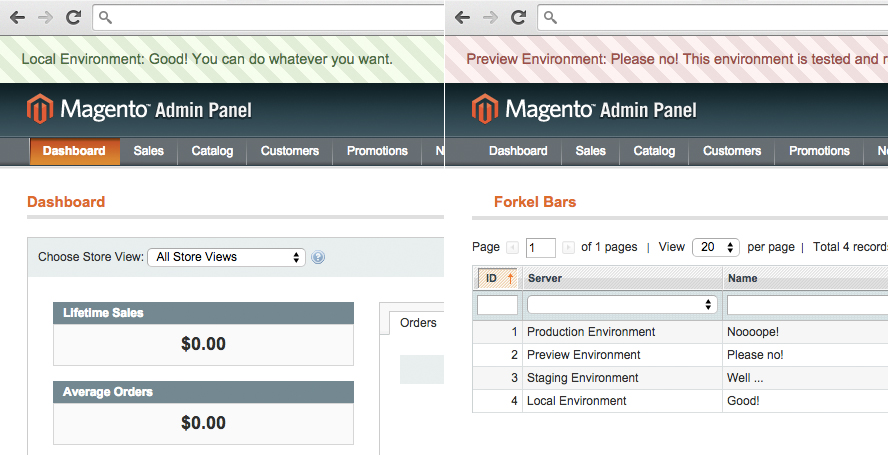
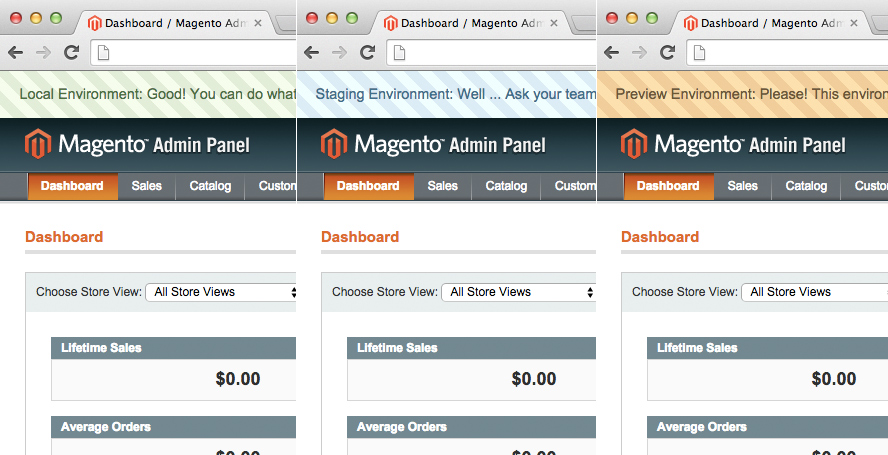
Release 1.0.0

diff --git a/js/community/forkel_bars/main.js b/js/community/forkel_bars/main.js
@@ -1,3 +1,3 @@
 document.observe('dom:loaded', function() {
-  $$('.header').first().insert({ before: $$('#forkel_bar_adminhtml_message').first() });
+  $$('.header').first().insert({ before: $$('#forkel_bars_adminhtml_notification').first() });
 });

diff --git a/app/code/community/Forkel/Bars/data/forkel_bars_setup/data-install-1.0.0.php b/app/code/community/Forkel/Bars/data/forkel_bars_setup/data-install-1.0.0.php
@@ -23,16 +23,16 @@ if ($model->getCollection()->count() == 0)
             'status' => 1
         ),
         array(
-            'name' => 'Please no!',
+            'name' => 'Please!',
             'description' => 'This environment is tested and ready for deployment.',
-            'color' => '#a94442',
-            'color_background' => '#f2dede',
+            'color' => '#715630',
+            'color_background' => '#f5ce96',
             'server_id' => 3,
             'status' => 1
         ),
         array(
             'name' => 'Well ...',
-            'description' => 'Ask your team and project manager before doing any changes.',
+            'description' => 'Ask your team and project manager before do any changes.',
             'color' => '#31708f',
             'color_background' => '#d9edf7',
             'server_id' => 2,

diff --git a/app/code/community/Forkel/Bars/Block/Adminhtml/Notification.php b/app/code/community/Forkel/Bars/Block/Adminhtml/Notification.php
@@ -10,7 +10,7 @@
 
 class Forkel_Bars_Block_Adminhtml_Notification extends Mage_Core_Block_Template
 {
-    public function getMessage()
+    public function getNotification()
     {
         return Mage::getSingleton(Forkel_Bars_Helper_Data::MODEL_INDEX)->loadByHostname(
             Forkel_Bars_Helper_Data::getHostname()

diff --git a/README.md b/README.md
@@ -3,6 +3,8 @@ Add a customizable notification bar on the top of your Magento Admin Panel. It a
 
 ![Forkel Bars - Preview](https://raw.githubusercontent.com/tobias-forkel/Forkel_Bars/master/preview.jpg)
 
+![Forkel Bars - Grid Preview](https://raw.githubusercontent.com/tobias-forkel/Forkel_Bars/master/preview_grid.jpg)
+
 ## Installation
 1. Pull the code.
 2. Copy the code in your document root directory where the `/app/` folder is located.
@@ -18,7 +20,7 @@ Add a customizable notification bar on the top of your Magento Admin Panel. It a
 The functionality can be used in the backend section `System > Bars`.
 
 ## Support
-If you have any issues with this extension, open an issue on [Github](https://github.com/tobias-forkel/Forkel_Bars/issues)
+If you have any issues with this extension, open an issue on [Github](https://github.com/tobias-forkel/Forkel_Bars/issues).
 
 ## Contributing
 1. Fork it!
